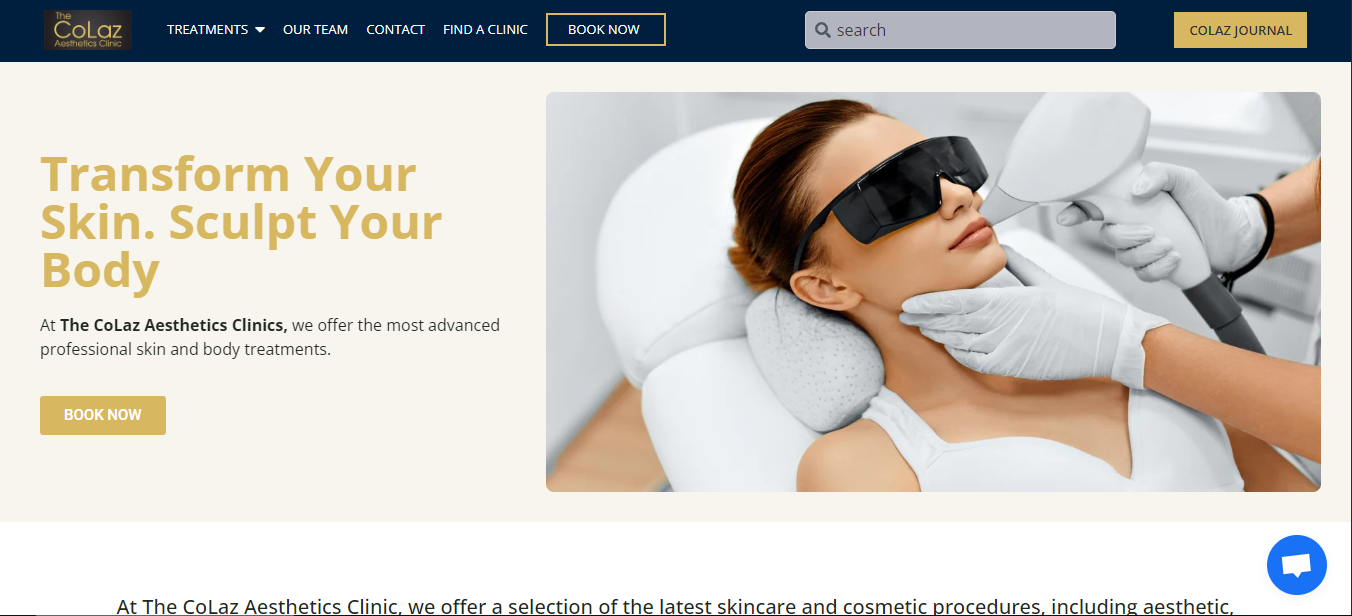
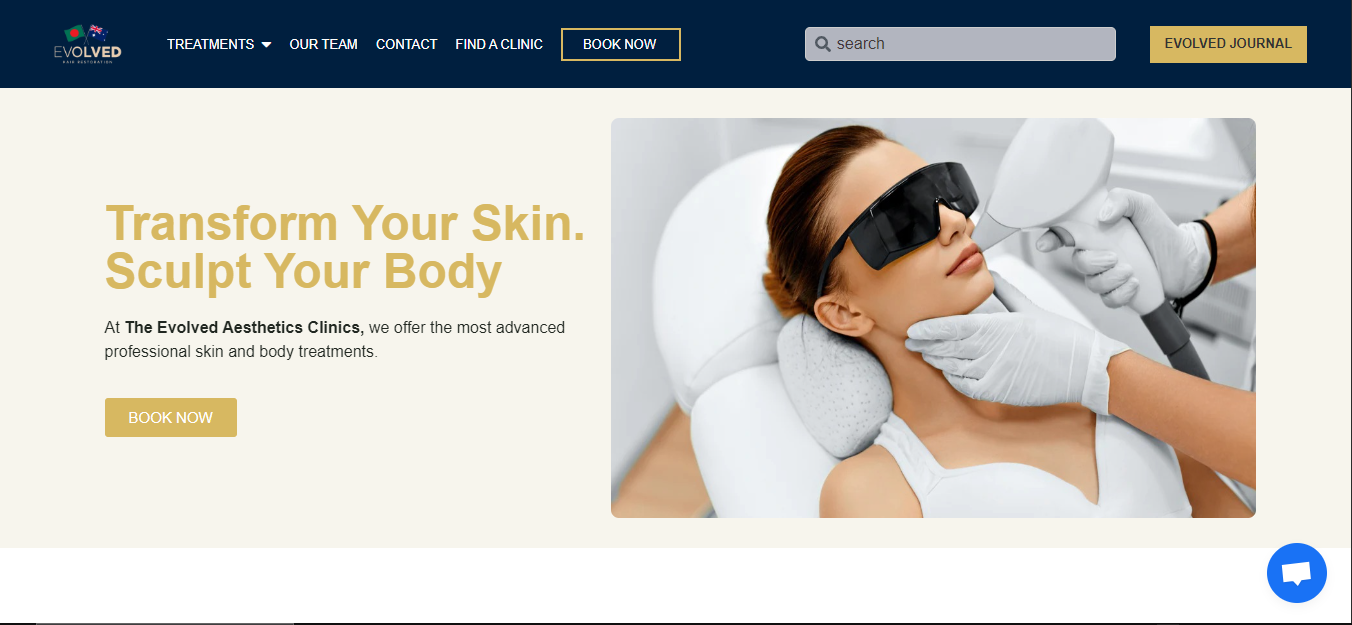
again add link

diff --git a/src/assets/demodata.js b/src/assets/demodata.js
@@ -77,8 +77,8 @@ const websiteDetails = [
     description: "Skin care and beauty salon website. Developed using WordPress",
   },
   {
-    link: "https://evolvedbd.com/",
-    description: "Colaz Beauty Salon Portfolio",
+    link: "https://comfortxyz.aplusadvertisinglimited.com/",
+    description: "Hospital management system website. Developed using WordPress",
   },
   {
     link: "https://hospitalfront-ten.vercel.app/",
